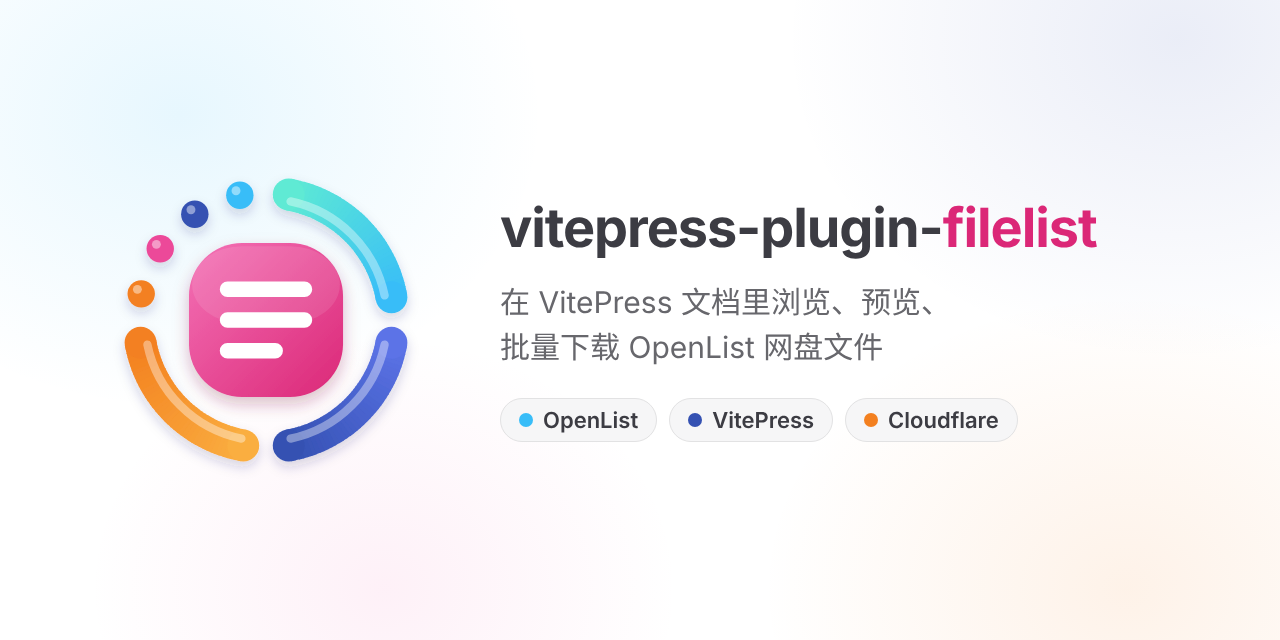
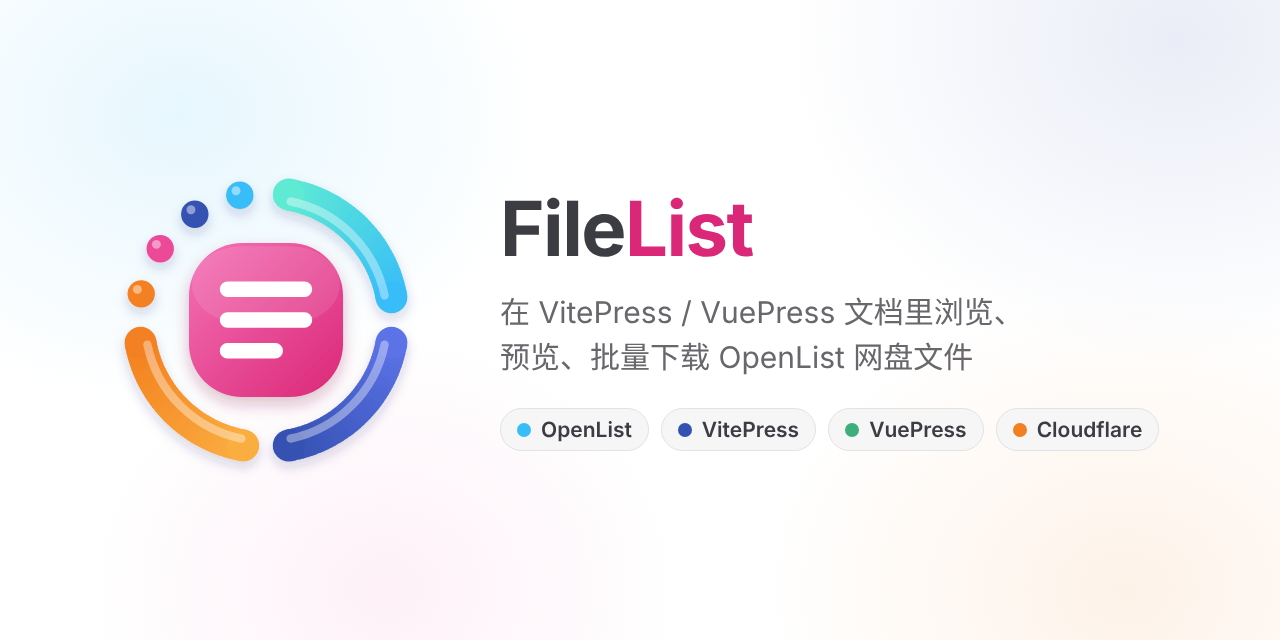
docs: FileList wordmark and social preview
- The wordmark reads "FileList" ("File" in the text colour, "List" in the
  brand pink), light and dark; READMEs show it at width 240
- The social preview names VitePress and VuePress

Claude-Session: https://claude.ai/code/session_01NP2xWTc8XTrymJ55gaXRfD

diff --git a/README-zh-CN.md b/README-zh-CN.md
@@ -1,7 +1,7 @@
 <h1 align="center">
   <picture>
     <source media="(prefers-color-scheme: dark)" srcset="https://raw.githubusercontent.com/nrjycyd/vitepress-plugin-filelist/main/demo/docs/public/wordmark-dark.svg?sanitize=true">
-    <img src="https://raw.githubusercontent.com/nrjycyd/vitepress-plugin-filelist/main/demo/docs/public/wordmark.svg?sanitize=true" alt="vitepress-plugin-filelist" width="420">
+    <img src="https://raw.githubusercontent.com/nrjycyd/vitepress-plugin-filelist/main/demo/docs/public/wordmark.svg?sanitize=true" alt="FileList" width="240">
   </picture>
 </h1>
 

diff --git a/README.md b/README.md
@@ -1,7 +1,7 @@
 <h1 align="center">
   <picture>
     <source media="(prefers-color-scheme: dark)" srcset="https://raw.githubusercontent.com/nrjycyd/vitepress-plugin-filelist/main/demo/docs/public/wordmark-dark.svg?sanitize=true">
-    <img src="https://raw.githubusercontent.com/nrjycyd/vitepress-plugin-filelist/main/demo/docs/public/wordmark.svg?sanitize=true" alt="vitepress-plugin-filelist" width="420">
+    <img src="https://raw.githubusercontent.com/nrjycyd/vitepress-plugin-filelist/main/demo/docs/public/wordmark.svg?sanitize=true" alt="FileList" width="240">
   </picture>
 </h1>
 

diff --git a/packages/vuepress-plugin-filelist/README-zh-CN.md b/packages/vuepress-plugin-filelist/README-zh-CN.md
@@ -1,7 +1,7 @@
 <h1 align="center">
   <picture>
     <source media="(prefers-color-scheme: dark)" srcset="https://raw.githubusercontent.com/nrjycyd/vitepress-plugin-filelist/main/demo/docs/public/wordmark-dark.svg?sanitize=true">
-    <img src="https://raw.githubusercontent.com/nrjycyd/vitepress-plugin-filelist/main/demo/docs/public/wordmark.svg?sanitize=true" alt="filelist" width="420">
+    <img src="https://raw.githubusercontent.com/nrjycyd/vitepress-plugin-filelist/main/demo/docs/public/wordmark.svg?sanitize=true" alt="FileList" width="240">
   </picture>
 </h1>
 

diff --git a/packages/vuepress-plugin-filelist/README.md b/packages/vuepress-plugin-filelist/README.md
@@ -1,7 +1,7 @@
 <h1 align="center">
   <picture>
     <source media="(prefers-color-scheme: dark)" srcset="https://raw.githubusercontent.com/nrjycyd/vitepress-plugin-filelist/main/demo/docs/public/wordmark-dark.svg?sanitize=true">
-    <img src="https://raw.githubusercontent.com/nrjycyd/vitepress-plugin-filelist/main/demo/docs/public/wordmark.svg?sanitize=true" alt="filelist" width="420">
+    <img src="https://raw.githubusercontent.com/nrjycyd/vitepress-plugin-filelist/main/demo/docs/public/wordmark.svg?sanitize=true" alt="FileList" width="240">
   </picture>
 </h1>
 
